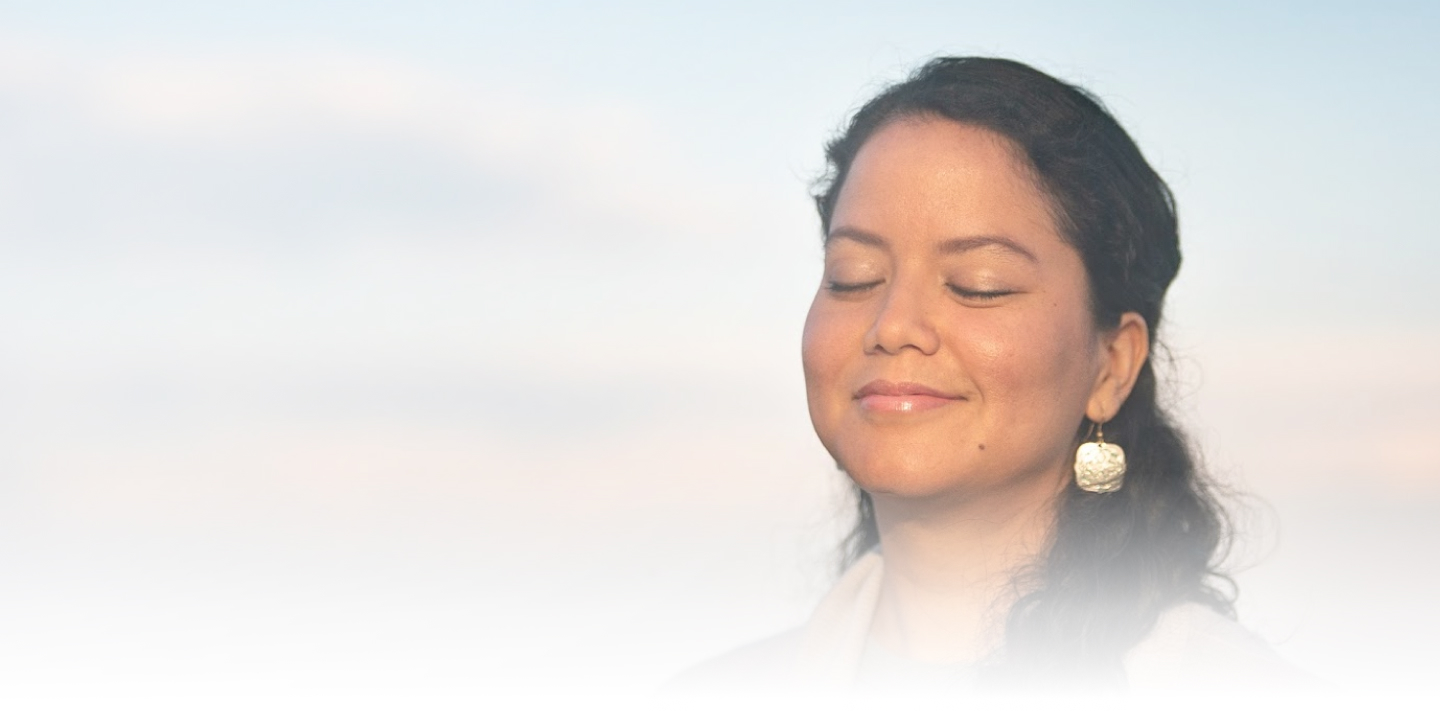
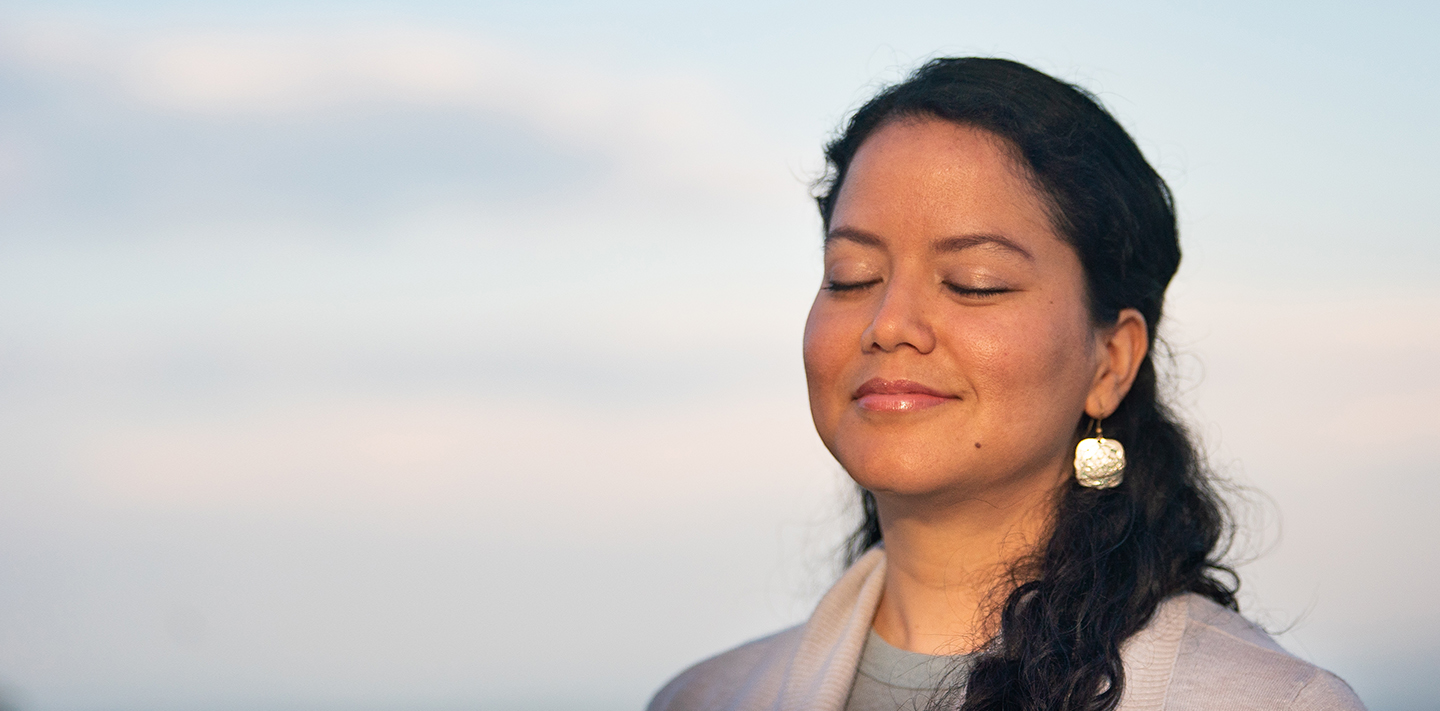
[Fix/sky_slient] Sky Silent course fixes

diff --git a/src/styles/program_page/_sky-silent-retreat.scss b/src/styles/program_page/_sky-silent-retreat.scss
@@ -77,10 +77,50 @@
 }
 
 .sky-header {
+  position: relative;
   padding: 100px 0 70px;
-  background-repeat: no-repeat;
-  background-size: cover;
-  background-image: url("/img/sky-silent-header.jpg");
+
+  &__image {
+    position: absolute;
+    z-index: -1;
+
+    img {
+      object-fit: cover;
+    }
+
+    &:after {
+      content: "";
+      position: absolute;
+      background: linear-gradient(
+          109.01deg,
+          rgba(255, 255, 255, 0.7) -18.28%,
+          rgba(255, 255, 255, 0.435746) 24.6%,
+          rgba(255, 255, 255, 0) 59.92%
+        ),
+        linear-gradient(
+          179.86deg,
+          rgba(255, 255, 255, 0) 0.12%,
+          rgba(255, 255, 255, 0.197243) 20.35%,
+          rgba(255, 255, 255, 0.244948) 66.55%,
+          rgba(255, 255, 255, 0.55167) 76.63%,
+          rgba(255, 255, 255, 0.81) 86.02%,
+          #ffffff 98.33%
+        );
+    }
+  }
+
+  &__image,
+  &__image:after {
+    top: 0;
+    left: 0;
+  }
+
+  &__image,
+  &__image img,
+  &__image:after {
+    width: 100%;
+    height: 100%;
+  }
 
   @media (min-width: 1500px) {
     background-position: top;
@@ -462,6 +502,7 @@
     width: 120px;
     height: 120px;
     margin-bottom: 20px;
+    border-radius: 50%;
   }
 
   &__title {
@@ -904,8 +945,6 @@
   }
 
   .sky-header {
-    background-position: center;
-
     &__wrapper {
       padding-left: 80px;
     }
@@ -1499,9 +1538,15 @@
 
 @media (max-width: 576px) {
   .sky-header {
-    background-position: top right 10%;
-    background-size: auto 380px;
     padding: 280px 0 40px;
+
+    &__image {
+      height: 380px;
+
+      img {
+        object-position: top 0 right 15%;
+      }
+    }
 
     &__title {
       font-size: 32px;

diff --git a/src/components/courseDetails/SKYSilentRetreat.jsx b/src/components/courseDetails/SKYSilentRetreat.jsx
@@ -96,6 +96,9 @@ export const SKYSilentRetreat = ({ data, swiperOption }) => {
   return (
     <>
       <section className="sky-header">
+        <div class="sky-header__image">
+          <img src="/img/sky-silent-header.jpg" alt="SKY Silent Retreat" />
+        </div>
         <div className="sky-header__container container">
           <div className="sky-header__wrapper">
             <div className="sky-header__status">{mode}</div>
@@ -1033,7 +1036,7 @@ export const SKYSilentRetreat = ({ data, swiperOption }) => {
               >
                 <div className="swiper-slide reviews__slide review-card">
                   <img
-                    src="/img/sky-reviews-1.png"
+                    src="/img/daniel-moss.jpg"
                     className="review-card__logo"
                     alt="review-logo"
                   />
@@ -1085,7 +1088,7 @@ export const SKYSilentRetreat = ({ data, swiperOption }) => {
 
                 <div className="swiper-slide reviews__slide review-card">
                   <img
-                    src="/img/sky-reviews-2.png"
+                    src="/img/max-goldberg.png"
                     className="review-card__logo"
                     alt="review-logo"
                   />
@@ -1136,7 +1139,7 @@ export const SKYSilentRetreat = ({ data, swiperOption }) => {
 
                 <div className="swiper-slide reviews__slide review-card">
                   <img
-                    src="/img/sky-reviews-3.png"
+                    src="/img/julie-madeley.jpg"
                     className="review-card__logo"
                     alt="review-logo"
                   />
